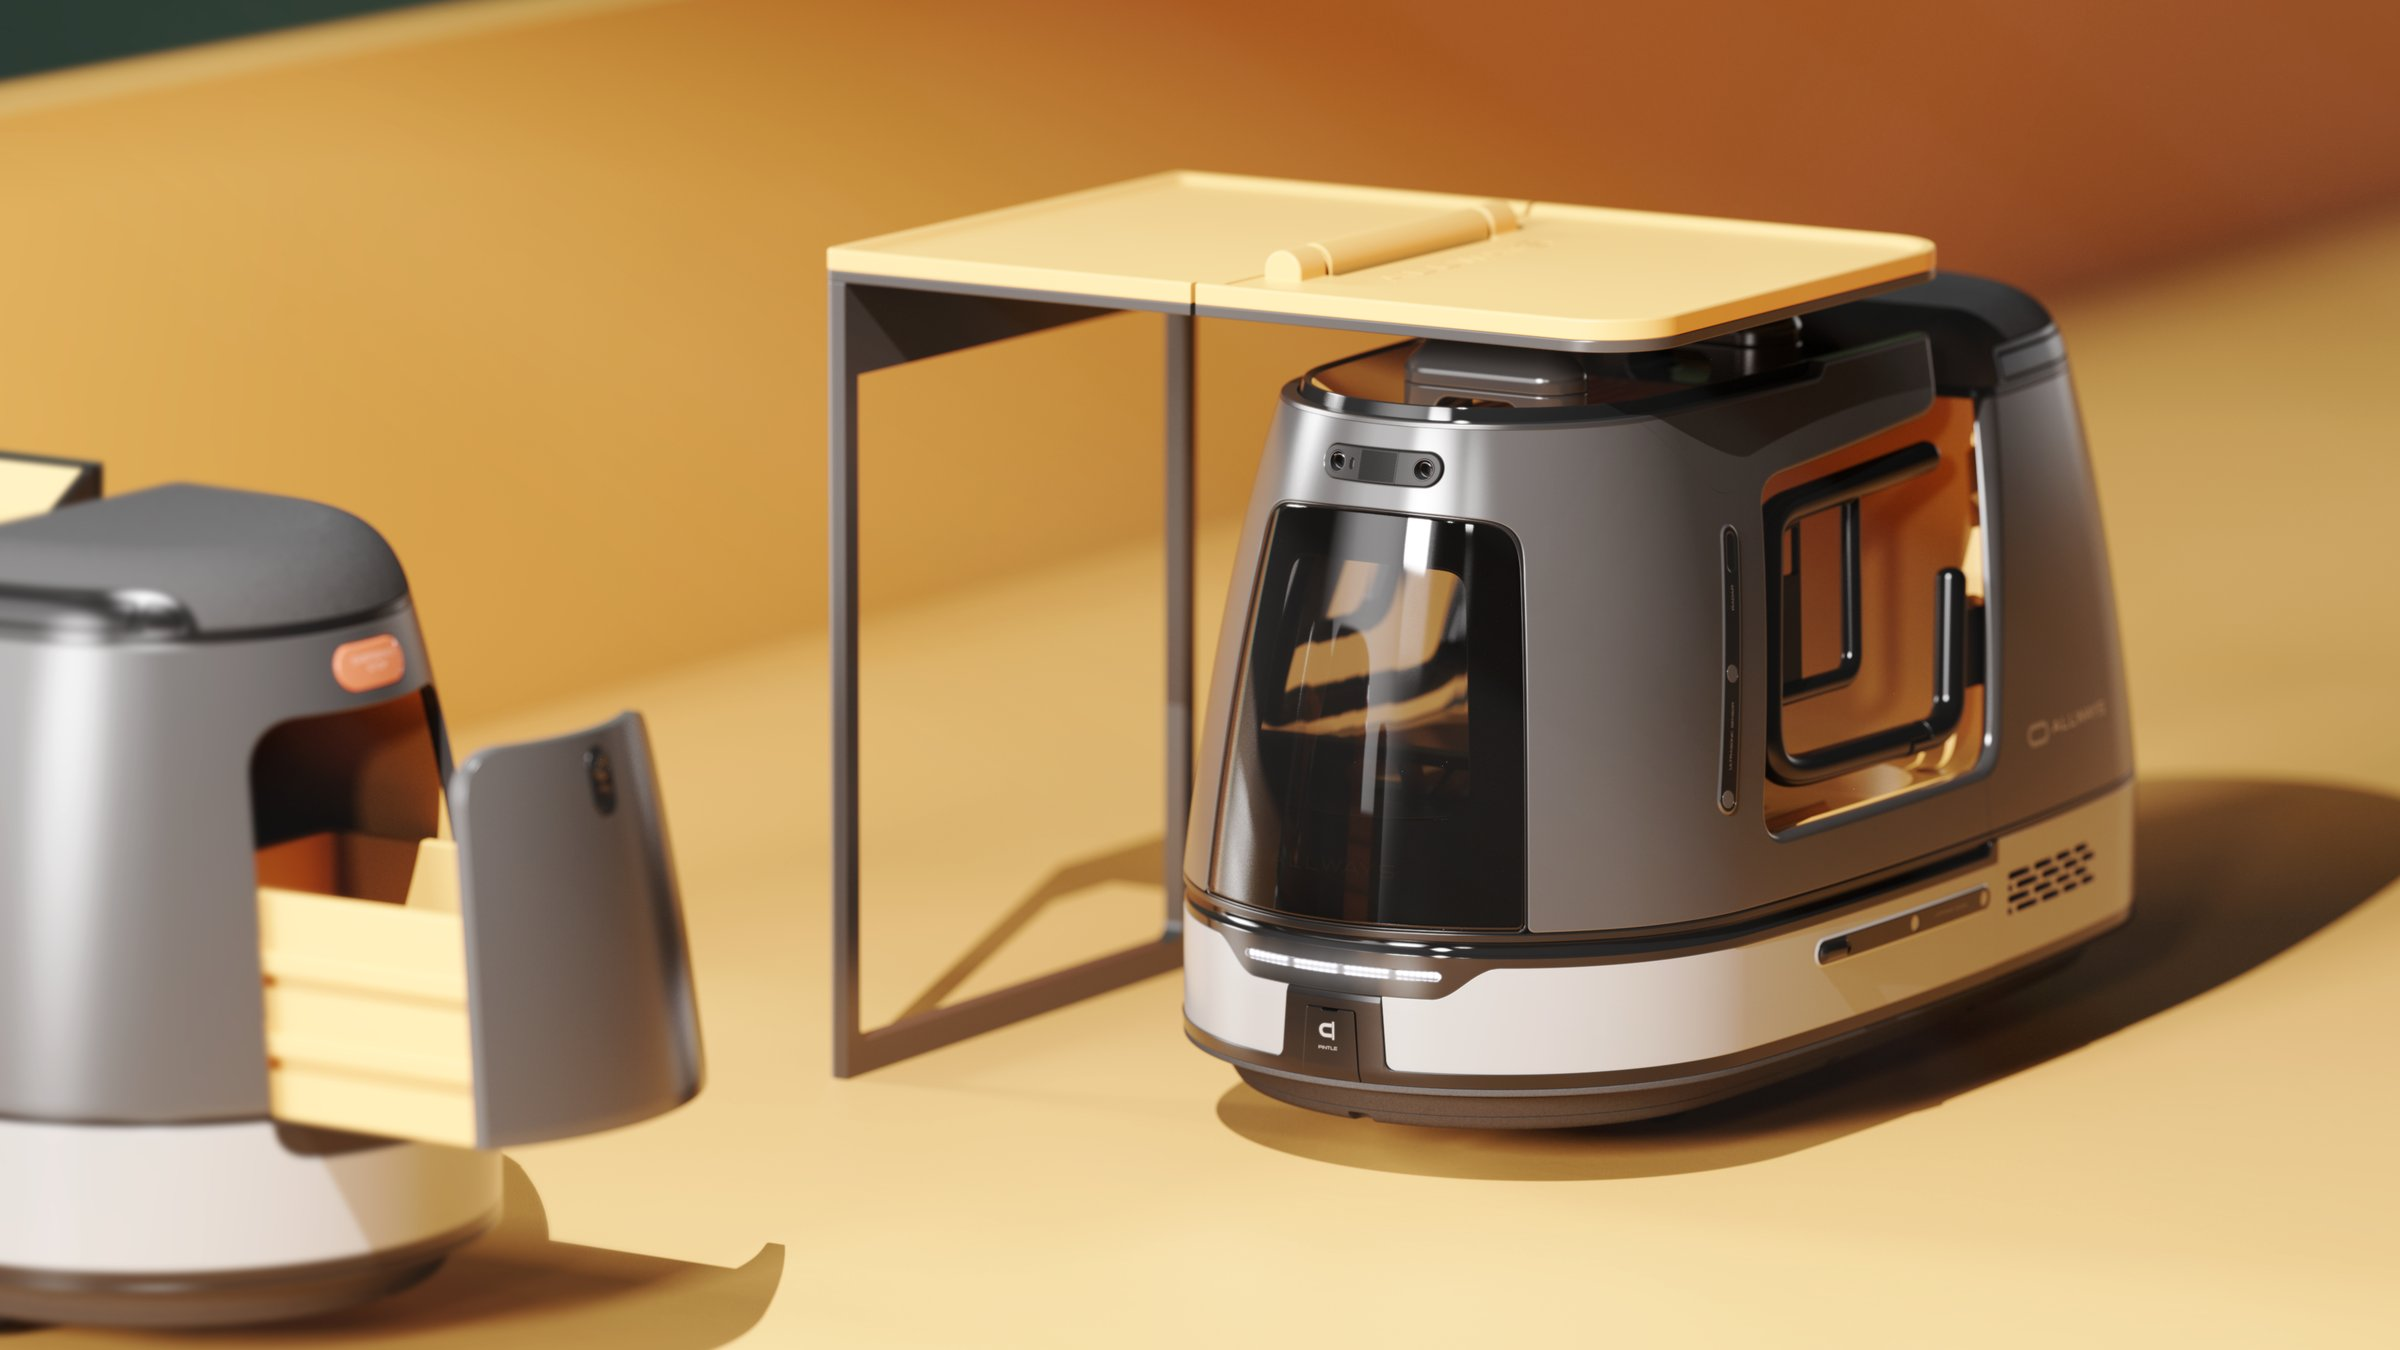
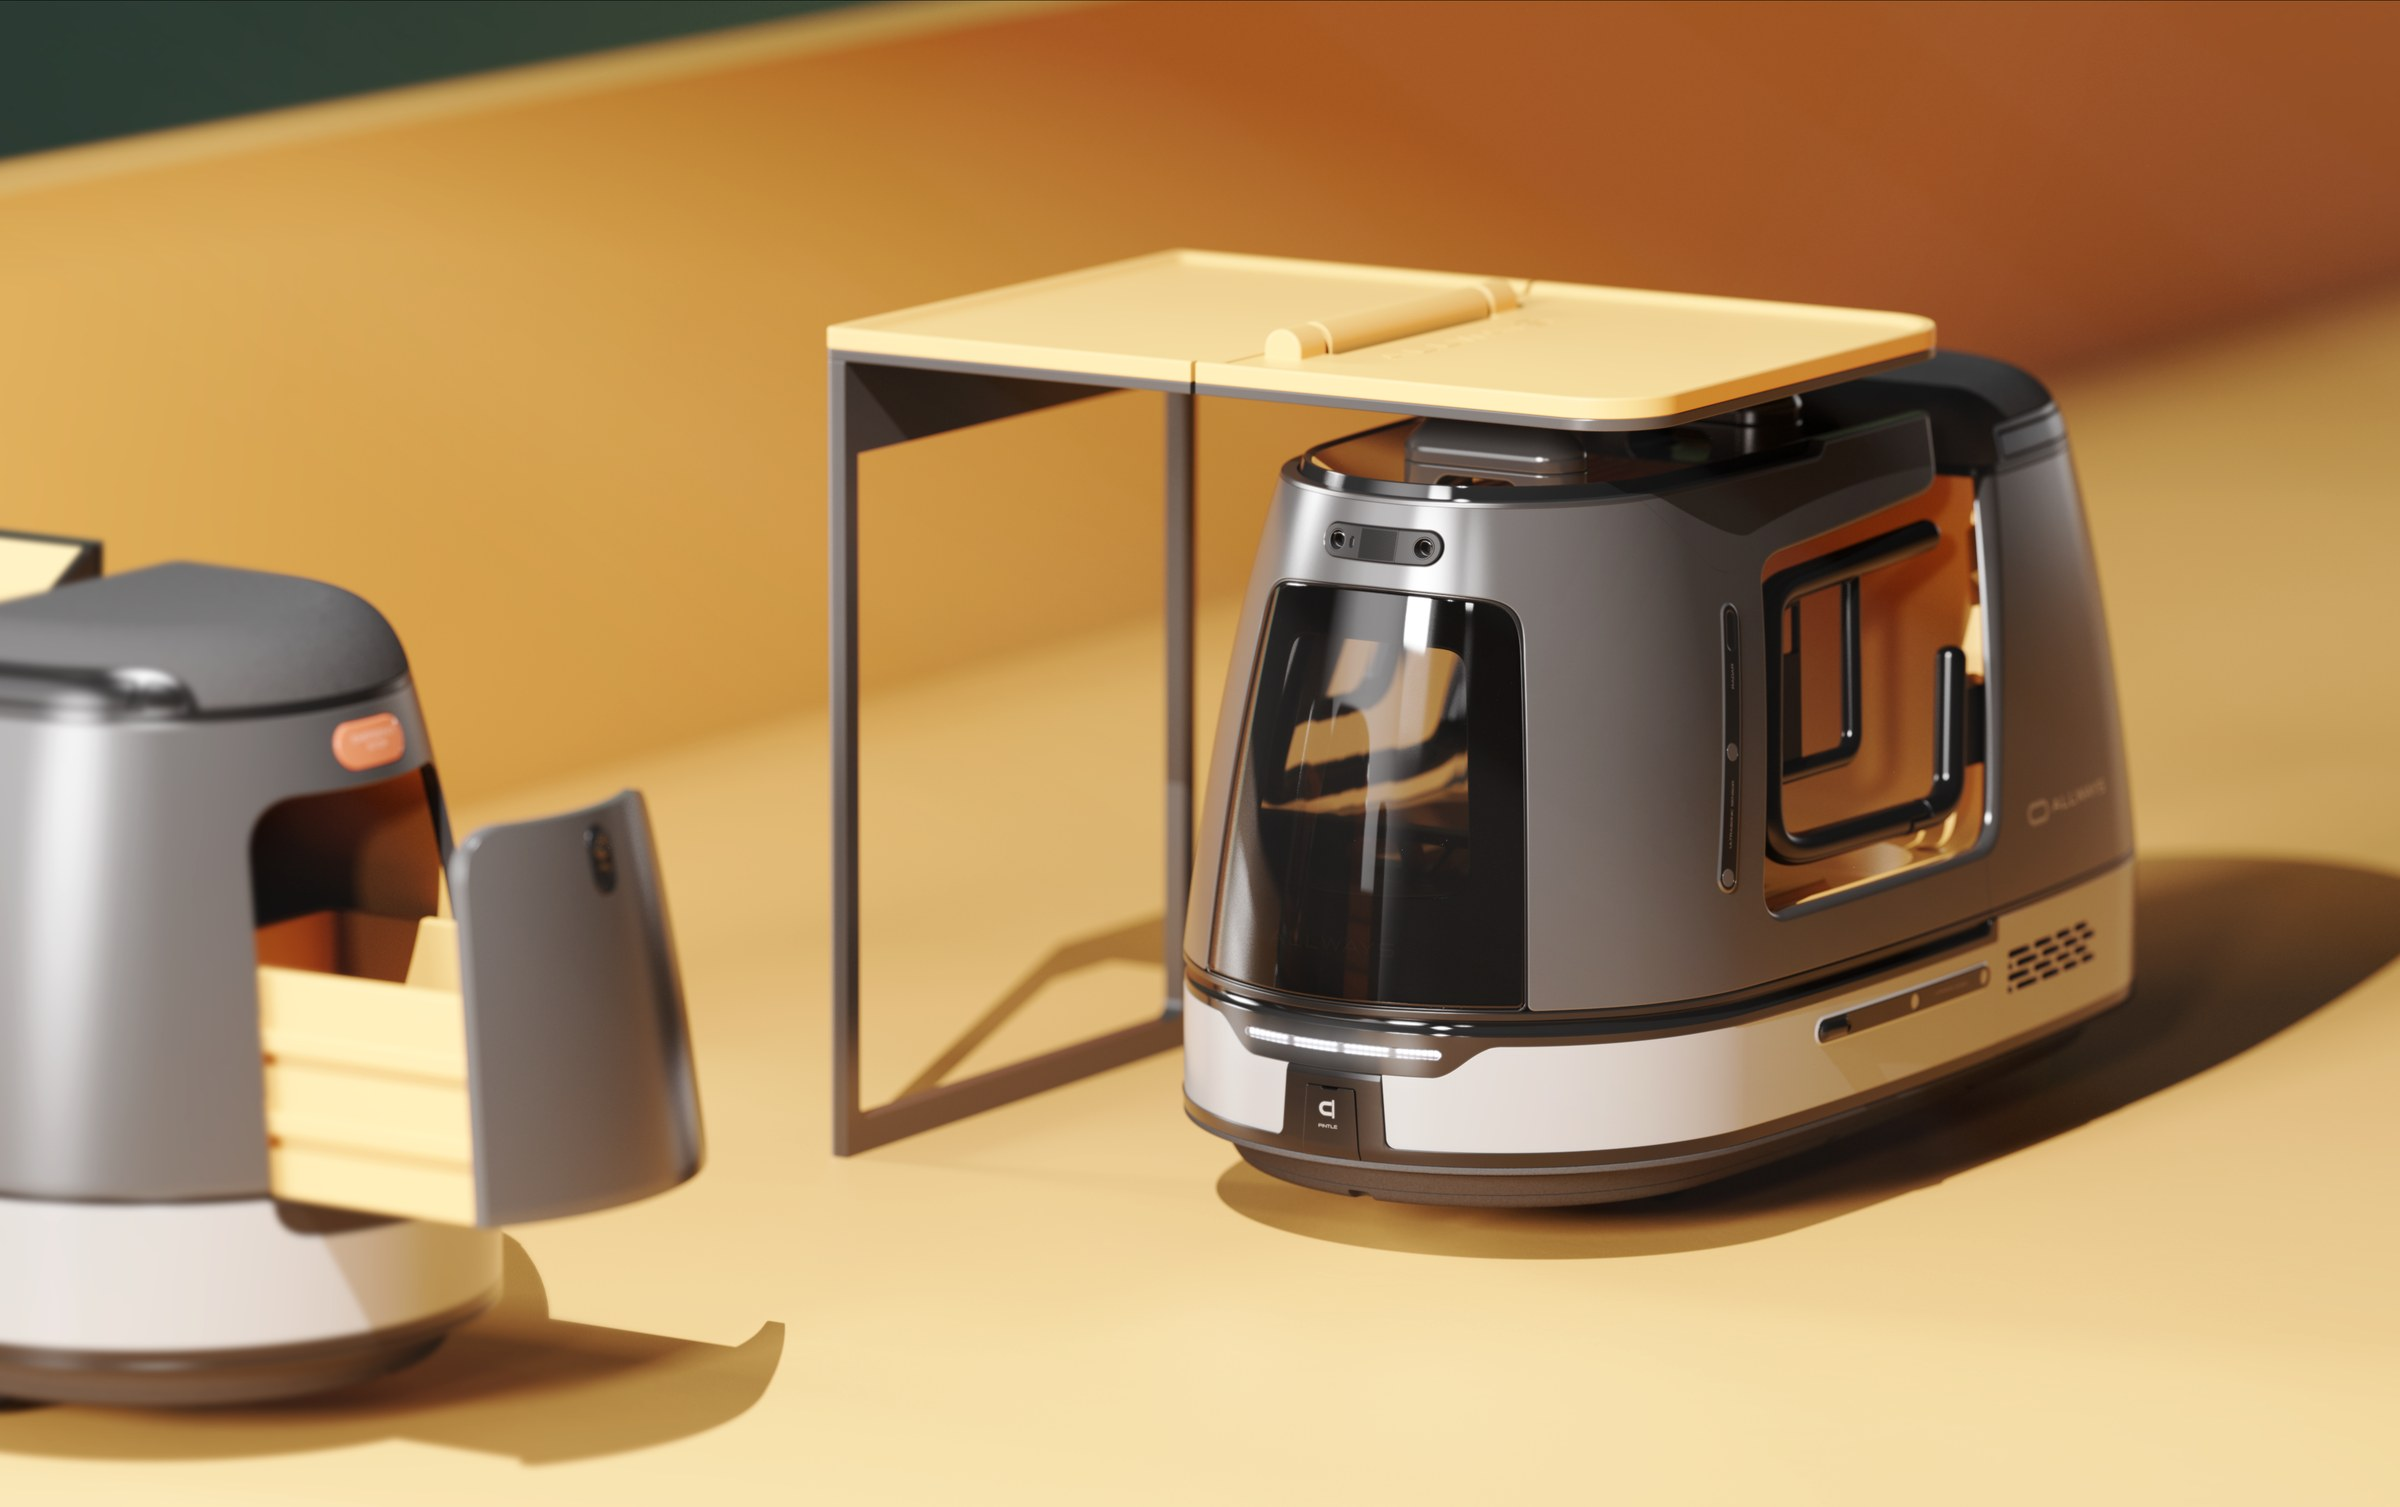
Use uncropped ALLWAYS photo for hero and thumbnail
Claude-Session: https://claude.ai/code/session_01DuSswWf5f4YisWgcdZdx4a

diff --git a/allways.html b/allways.html
@@ -6,7 +6,7 @@
 <title>ALLWAYS — Kim Minseok</title>
 <meta name="description" content="액티브 시니어를 위한 여정 동반 모빌리티형 로봇">
 <link rel="preconnect" href="https://fonts.googleapis.com"><link rel="preconnect" href="https://fonts.gstatic.com" crossorigin><link rel="stylesheet" href="https://fonts.googleapis.com/css2?family=42dot+Sans:wght@400;500;600;700&display=swap">
-<link rel="stylesheet" href="assets/style.css">
+<link rel="stylesheet" href="assets/style.css?v=1791817689">
 </head>
 <body>
 <header class="top"><div class="wrap">
@@ -22,7 +22,7 @@
   <p class="meta"><span class="mi">2025.03 – 2025.10</span><span class="dot"> · </span><span class="mi">Personal Project</span><span class="dot"> · </span><span class="mi">PIN UP 2026 / 2025 INDEF</span></p>
 </div>
 </div>
-<div class="p-hero"><img src="images/allways-hero.jpg?v=1791817252" width="2400" height="1350" alt="ALLWAYS 대표 이미지"></div>
+<div class="p-hero natural"><img src="images/allways-hero.jpg?v=1791817688" width="2400" height="1507" alt="ALLWAYS 대표 이미지"></div>
 <div class="wrap">
 <div class="p-text"><div><h3>Background</h3><p>고령화 사회로 접어든 오늘날, 은퇴 후에도 단순한 휴식이 아닌 여행 트레킹 등 외부 활동을 즐기려는 액티브 시니어가 증가하고 있다. 이들은 여가를 통해 자율성과 삶의 활력을 추구하지만, 체력 저하, 장거리 이동의 피로, 낯선 환경에 대한 불안 등으로 인해 활동 지속에 제약을 겪는다. 이에 따라 신체적 부담을 줄이고 외부 활동의 자율성과 안전성을 높이는 액티브 시니어를 위한 여행 동반 로봇 ALLWAYS를 제안한다.</p></div><div><h3>Concept &amp; Solution</h3><p>액티브 시니어가 겪는 페인포인트를 크게 4가지 그룹으로 묶어 시니어 맞춤 정보 제공과 체력 및 이동 경험 향상, 원스톱 경험 서비스, 데이터 관리 및 보상을 기회요소로 발견하였고, 조형적으로 전체적으로 곡선이 아래로 갈수록 넓어지며 안정적이고 부드러운 조형으로 친숙한 이미지로 사용자에게 다가간다. 중앙에는 넓게 열린 오픈 트레이 공간과 전면으로 확장되는 수납함, 내부를 볼 수 있는 글라스를 배치해 솔리드한 실루엣에 개방감을 더했다.</p></div></div>
 <div class="imgs">

diff --git a/portfolio.html b/portfolio.html
@@ -6,7 +6,7 @@
 <title>Point of View — Kim Minseok</title>
 <meta name="description" content="산업디자이너 김민석의 포트폴리오">
 <link rel="preconnect" href="https://fonts.googleapis.com"><link rel="preconnect" href="https://fonts.gstatic.com" crossorigin><link rel="stylesheet" href="https://fonts.googleapis.com/css2?family=42dot+Sans:wght@400;500;600;700&display=swap">
-<link rel="stylesheet" href="assets/style.css">
+<link rel="stylesheet" href="assets/style.css?v=1791817689">
 </head>
 <body>
 <header class="top"><div class="wrap">
@@ -17,7 +17,7 @@
 <section class="intro wrap"><p class="l1">산업디자이너 김민석입니다.</p><p class="l2">나의 관점에 사용자의 시선을 더해 문제를 해석하다</p></section>
 <section class="wrap work" id="work"><div class="grid">
 <a class="item" href="allways.html">
-  <div class="ph"><img src="images/allways-thumb.jpg?v=1791817162" width="1200" height="754" alt="ALLWAYS"></div>
+  <div class="ph"><img src="images/allways-thumb.jpg?v=1791817689" width="1200" height="754" alt="ALLWAYS"></div>
   <p><span class="t">ALLWAYS</span><span class="d">액티브 시니어를 위한 여정 동반 모빌리티형 로봇</span></p>
 </a>
 <a class="item" href="stand.html">

diff --git a/assets/style.css b/assets/style.css
@@ -94,6 +94,7 @@ footer .curio { display: block; flex: none; width: 25px; height: 22px; }
 .p-head .sub { margin: 0; font-size: 17px; line-height: 1.6; }
 .p-head .meta { margin: 12px 0 0; color: var(--mute); font-size: 14px; line-height: 1.6; }
 .p-hero img { width: 100%; aspect-ratio: 16 / 9; object-fit: cover; background: var(--ph); }
+.p-hero.natural img { aspect-ratio: auto; height: auto; object-fit: initial; }
 .p-text { display: grid; grid-template-columns: 1fr; gap: 40px; padding-block: 64px; }
 .p-text h3 { font-size: 13px; font-weight: 500; color: var(--mute); margin: 0 0 16px; }
 .p-text p { margin: 0 0 1em; max-width: 36em; line-height: 1.8; }

diff --git a/bymory.html b/bymory.html
@@ -6,7 +6,7 @@
 <title>BY MORY — Kim Minseok</title>
 <meta name="description" content="순간의 추억을 시각, 청각, 촉각으로 남기는 카메라">
 <link rel="preconnect" href="https://fonts.googleapis.com"><link rel="preconnect" href="https://fonts.gstatic.com" crossorigin><link rel="stylesheet" href="https://fonts.googleapis.com/css2?family=42dot+Sans:wght@400;500;600;700&display=swap">
-<link rel="stylesheet" href="assets/style.css">
+<link rel="stylesheet" href="assets/style.css?v=1791817689">
 </head>
 <body>
 <header class="top"><div class="wrap">

diff --git a/stand.html b/stand.html
@@ -6,7 +6,7 @@
 <title>STAND — Kim Minseok</title>
 <meta name="description" content="인적이 드문 밤길, 안심 귀가를 위한 렌탈 서비스">
 <link rel="preconnect" href="https://fonts.googleapis.com"><link rel="preconnect" href="https://fonts.gstatic.com" crossorigin><link rel="stylesheet" href="https://fonts.googleapis.com/css2?family=42dot+Sans:wght@400;500;600;700&display=swap">
-<link rel="stylesheet" href="assets/style.css">
+<link rel="stylesheet" href="assets/style.css?v=1791817689">
 </head>
 <body>
 <header class="top"><div class="wrap">

diff --git a/voner.html b/voner.html
@@ -6,7 +6,7 @@
 <title>VONER — Kim Minseok</title>
 <meta name="description" content="놀이 요소로 술자리의 즐거움을 극대화한 병따개">
 <link rel="preconnect" href="https://fonts.googleapis.com"><link rel="preconnect" href="https://fonts.gstatic.com" crossorigin><link rel="stylesheet" href="https://fonts.googleapis.com/css2?family=42dot+Sans:wght@400;500;600;700&display=swap">
-<link rel="stylesheet" href="assets/style.css">
+<link rel="stylesheet" href="assets/style.css?v=1791817689">
 </head>
 <body>
 <header class="top"><div class="wrap">

diff --git a/brezzing.html b/brezzing.html
@@ -6,7 +6,7 @@
 <title>BREEZING — Kim Minseok</title>
 <meta name="description" content="아웃도어 특화, 손목 거치형 휴대형 선풍기">
 <link rel="preconnect" href="https://fonts.googleapis.com"><link rel="preconnect" href="https://fonts.gstatic.com" crossorigin><link rel="stylesheet" href="https://fonts.googleapis.com/css2?family=42dot+Sans:wght@400;500;600;700&display=swap">
-<link rel="stylesheet" href="assets/style.css">
+<link rel="stylesheet" href="assets/style.css?v=1791817689">
 </head>
 <body>
 <header class="top"><div class="wrap">

diff --git a/povervot.html b/povervot.html
@@ -6,7 +6,7 @@
 <title>PORTERBOT — Kim Minseok</title>
 <meta name="description" content="농촌에서의 작업을 돕는 자율주행 이동체">
 <link rel="preconnect" href="https://fonts.googleapis.com"><link rel="preconnect" href="https://fonts.gstatic.com" crossorigin><link rel="stylesheet" href="https://fonts.googleapis.com/css2?family=42dot+Sans:wght@400;500;600;700&display=swap">
-<link rel="stylesheet" href="assets/style.css">
+<link rel="stylesheet" href="assets/style.css?v=1791817689">
 </head>
 <body>
 <header class="top"><div class="wrap">

diff --git a/sync.html b/sync.html
@@ -6,7 +6,7 @@
 <title>SYNC — Kim Minseok</title>
 <meta name="description" content="야외와 실내를 하나로 이어주는 자율주행 PBV">
 <link rel="preconnect" href="https://fonts.googleapis.com"><link rel="preconnect" href="https://fonts.gstatic.com" crossorigin><link rel="stylesheet" href="https://fonts.googleapis.com/css2?family=42dot+Sans:wght@400;500;600;700&display=swap">
-<link rel="stylesheet" href="assets/style.css">
+<link rel="stylesheet" href="assets/style.css?v=1791817689">
 </head>
 <body>
 <header class="top"><div class="wrap">

diff --git a/unveiling.html b/unveiling.html
@@ -6,7 +6,7 @@
 <title>UNVEILING — Kim Minseok</title>
 <meta name="description" content="당당함을 형상화한 화장품">
 <link rel="preconnect" href="https://fonts.googleapis.com"><link rel="preconnect" href="https://fonts.gstatic.com" crossorigin><link rel="stylesheet" href="https://fonts.googleapis.com/css2?family=42dot+Sans:wght@400;500;600;700&display=swap">
-<link rel="stylesheet" href="assets/style.css">
+<link rel="stylesheet" href="assets/style.css?v=1791817689">
 </head>
 <body>
 <header class="top"><div class="wrap">

diff --git a/about.html b/about.html
@@ -6,7 +6,7 @@
 <title>About — Kim Minseok</title>
 <meta name="description" content="산업디자이너 김민석 소개">
 <link rel="preconnect" href="https://fonts.googleapis.com"><link rel="preconnect" href="https://fonts.gstatic.com" crossorigin><link rel="stylesheet" href="https://fonts.googleapis.com/css2?family=42dot+Sans:wght@400;500;600;700&display=swap">
-<link rel="stylesheet" href="assets/style.css">
+<link rel="stylesheet" href="assets/style.css?v=1791817689">
 </head>
 <body>
 <header class="top"><div class="wrap">
